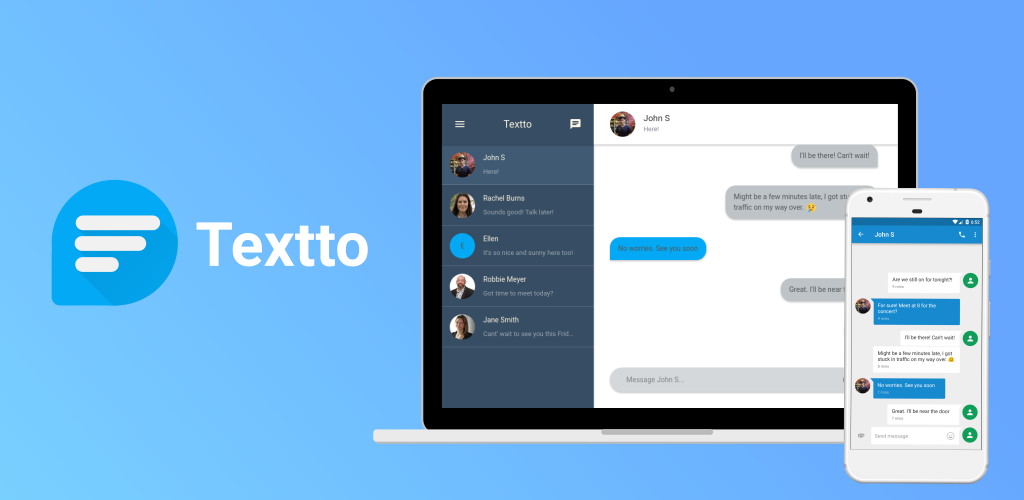
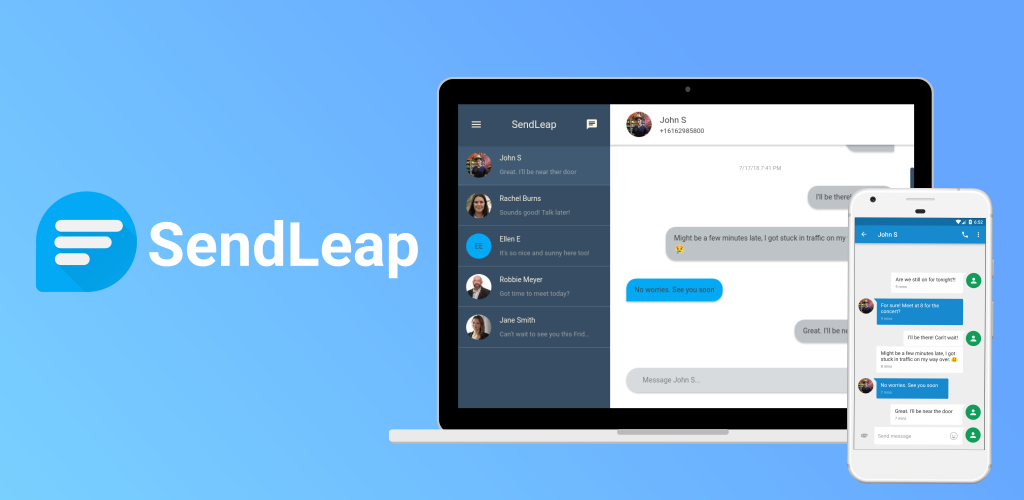
Change graphics to use sendleap

diff --git a/app/components/ad-banner/component.js b/app/components/ad-banner/component.js
@@ -40,12 +40,11 @@ export default Ember.Component.extend({
                     currentAd = 'increase_limits'
                 }
             }
-            else if (counter === 2) currentAd = 'advertise_on_textto'
             else {
-                currentAd = this.get('ads')[counter - 3]
+                currentAd = this.get('ads')[counter - 2]
             }
 
-            counter = (counter + 1) % (numberOfAds + 3)
+            counter = (counter + 1) % (numberOfAds + 2)
 
             this.set('currentAd', currentAd)
         }, 8000)
